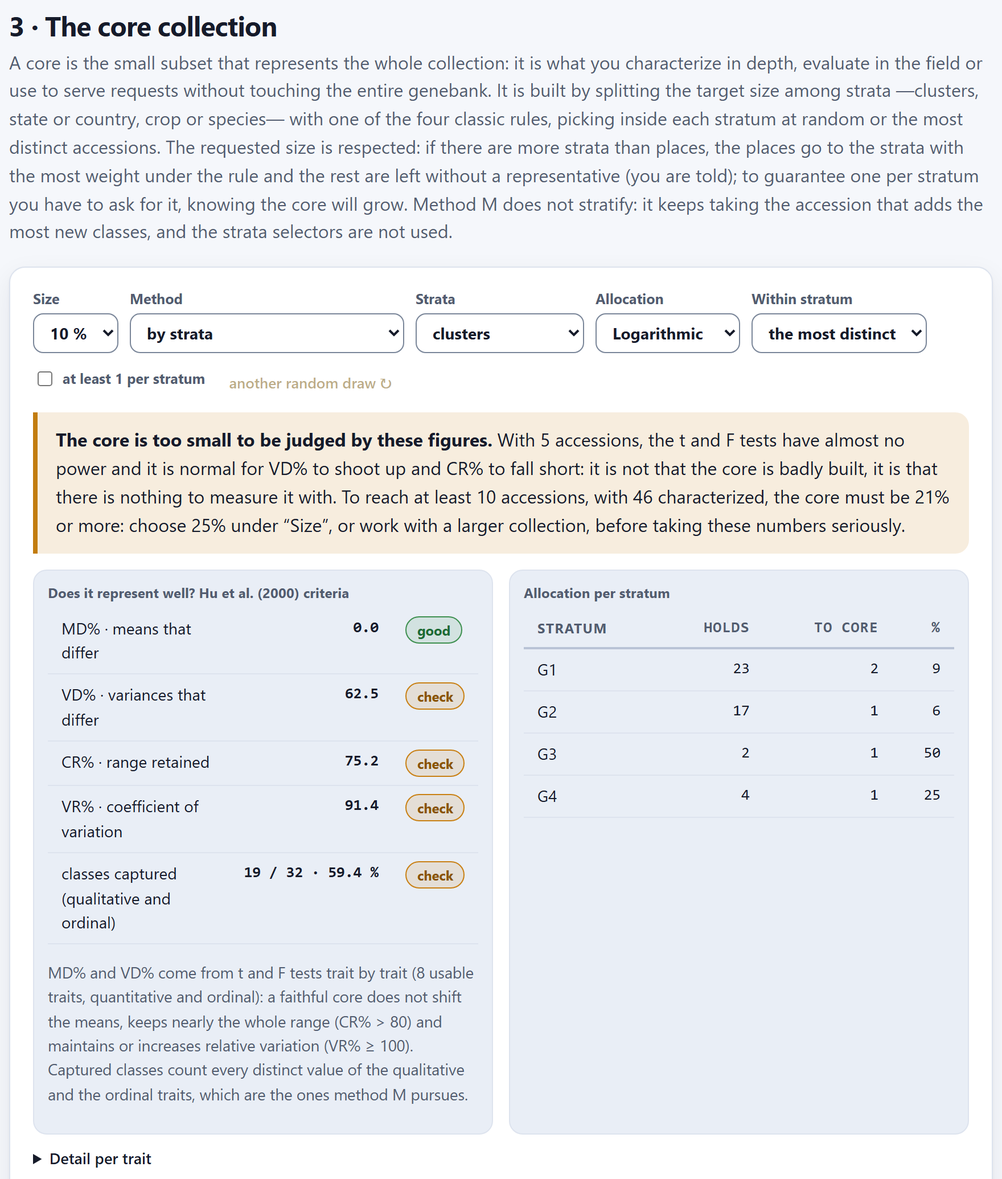
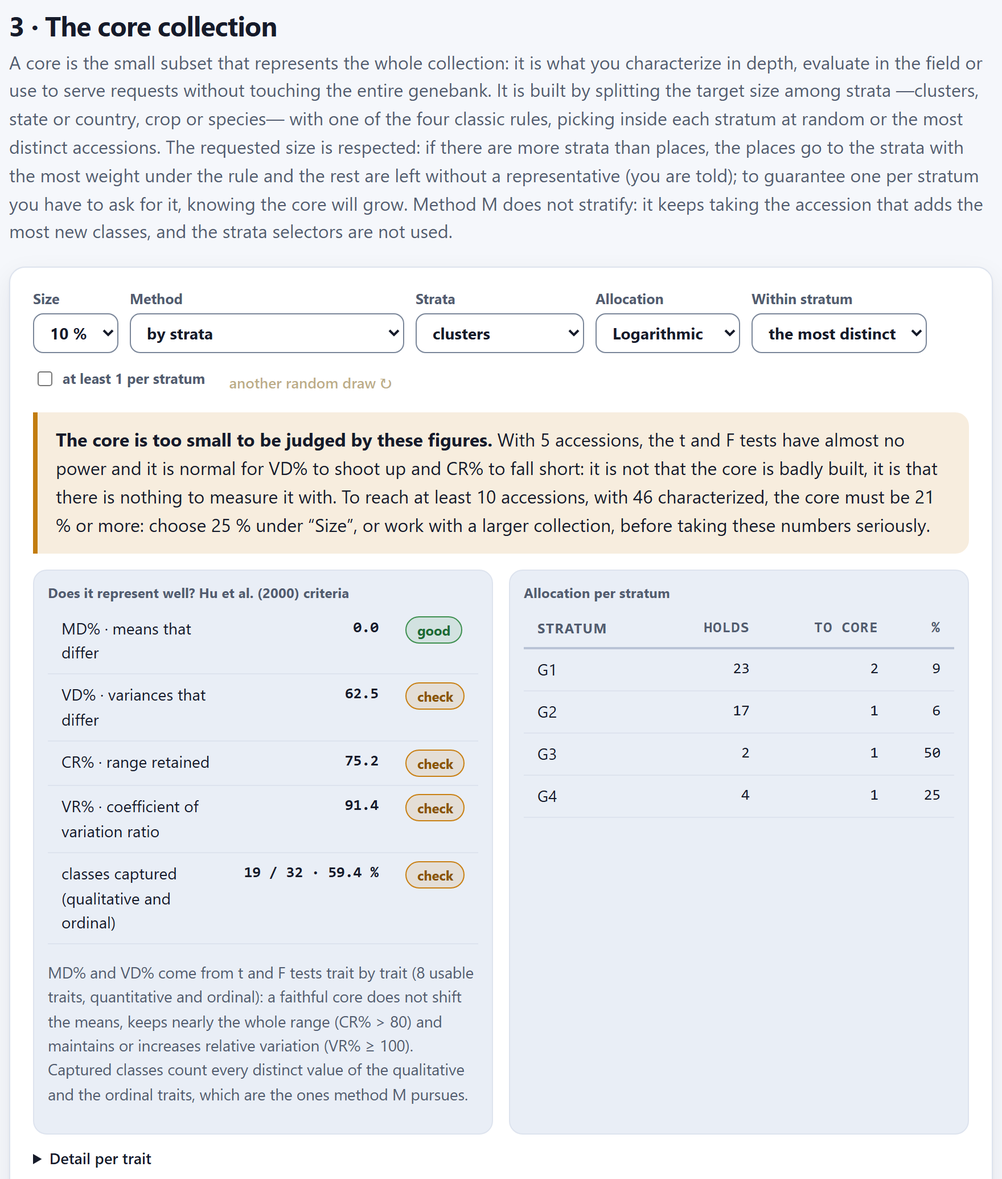
Manual: capítulos 7 y 8 en inglés al día con la interfaz revisada (Color by, porcentajes con espacio, archivos y columnas en inglés, VR% como razón de coeficientes de variación) y capturas rehechas; en español, VR% con su nuevo letrero y capturas b7-cargar, b7-nucleo, b7-nucleo30 y b7-detalle

Changed region(s): [[0.0625, 0.4329, 0.9062, 0.4638], [0.125, 0.6802, 0.1562, 0.7111]]

diff --git a/manual/en/07-bloque7.html b/manual/en/07-bloque7.html
@@ -49,7 +49,7 @@
   <h2 id="b7-1"><span class="num">7.1</span>Bringing in the characterization and joining it to the collection</h2>
   <p class="lead">Block 7 works with two tables: the passport from Block 2 (Chapter 2) and a characterization table with <b>one row per accession and one column per descriptor</b>. The two are joined through the accession number, <code>ACCENUMB</code>, which is the key of the whole app. If there is no passport, the block says <span class="ui">Load your accessions in Block 2 first.</span>; if there is a passport but no characterization, <span class="ui">No characterization data yet: load yours or open the example ones with the button above.</span></p>
   <figure class="mediana">
-    <div class="marco"><img src="../img/en/b7-cargar.png" alt="The header of Block 7: the title, the introductory paragraph, the buttons Load my characterization (CSV), Paste from a spreadsheet, Use the example characterization, Download the template and Remove the characterization, the note about the ACCENUMB column and six tiles: 46 characterized accessions of 46 in the collection with 12 traits, 4 groups with mean silhouette 0.14, a core of 5 accessions (10.9% of the characterized ones), MD% 0.0, CR% 75.2 and VR% 91.4"></div>
+    <div class="marco"><img src="../img/en/b7-cargar.png" alt="The header of Block 7: the title, the introductory paragraph, the buttons Load my characterization (CSV), Paste from a spreadsheet, Use the example characterization, Download the template and Remove the characterization, the note about the ACCENUMB column and six tiles: 46 characterized accessions of 46 in the collection with 12 traits, 4 groups with mean silhouette 0.14, a core of 5 accessions (10.9 % of the characterized ones), MD% 0.0, CR% 75.2 and VR% 91.4"></div>
     <figcaption><b>Figure 7.1.</b> The header of the block with the example collection, the example characterization and the default values. The color of the number in each tile is its traffic light: green if the figure is in the good range, ocher or red if it is worth checking.</figcaption>
   </figure>
   <table class="compacta">
@@ -59,7 +59,7 @@
       <tr><td><span class="ui">Load my characterization (CSV)</span></td><td>Reads a delimited <span class="ruta">.csv</span>, <span class="ruta">.tsv</span> or <span class="ruta">.txt</span> file and opens the confirmation card (Figure 7.2).</td></tr>
       <tr><td><span class="ui">Paste from a spreadsheet</span></td><td>Opens the same paste window as Block 2 (Section 2.3), titled <span class="ui">Paste your characterization</span>. Copy the block of cells with its header row and paste it; it also ends in the confirmation card.</td></tr>
       <tr><td><span class="ui">Use the example characterization</span></td><td>Generates the example characterization for the loaded accessions and computes the whole block at once, with the animated wait <i>Computing characterization and core</i>.</td></tr>
-      <tr><td><span class="ui">Download the template</span></td><td>Saves <span class="ruta">plantilla-caracterizacion.csv</span>: the <code>ACCENUMB</code> column already filled with all your accessions and six empty columns with the keys of the descriptor catalog: <code>DIAS_FLORACION</code>, <code>ALTURA_PLANTA</code>, <code>LARGO_FRUTO</code>, <code>COLOR_EXTERNO</code>, <code>FORMA_FRUTO</code> and <code>HABITO</code>. These are the same keys Block 2 recognizes as characterization on import (Section 2.5). Remove the ones you do not measure and add your own.</td></tr>
+      <tr><td><span class="ui">Download the template</span></td><td>Saves <span class="ruta">characterization-template.csv</span>: the <code>ACCENUMB</code> column already filled with all your accessions and six empty columns with the keys of the descriptor catalog: <code>DIAS_FLORACION</code>, <code>ALTURA_PLANTA</code>, <code>LARGO_FRUTO</code>, <code>COLOR_EXTERNO</code>, <code>FORMA_FRUTO</code> and <code>HABITO</code>. These are the same keys Block 2 recognizes as characterization on import (Section 2.5). Remove the ones you do not measure and add your own.</td></tr>
       <tr><td><span class="ui">Remove the characterization</span></td><td>Asks first and, if you confirm, deletes the saved characterization and leaves the block empty. The Block 2 accessions are not touched; if you loaded it from a file, just load it again.</td></tr>
     </tbody>
   </table>
@@ -114,7 +114,7 @@
       <tr><td><span class="ui">Core</span></td><td class="c">5</td><td>The accessions in the core and what percentage of the characterized ones they are (10.9%).</td></tr>
       <tr><td><span class="ui">MD%</span></td><td class="c">0.0</td><td>Means that differ between core and collection; good below 20 (Section 7.7).</td></tr>
       <tr><td><span class="ui">CR%</span></td><td class="c">75.2</td><td>Range retained; good above 80.</td></tr>
-      <tr><td><span class="ui">VR%</span></td><td class="c">91.4</td><td>Relative variation retained; good from 100, the same threshold in the label and in the traffic light.</td></tr>
+      <tr><td><span class="ui">VR%</span></td><td class="c">91.4</td><td>Coefficient of variation ratio: the relative variation retained; good from 100, the same threshold in the label and in the traffic light.</td></tr>
     </tbody>
   </table>
 
@@ -159,11 +159,11 @@
     <tbody>
       <tr><td><span class="ui">Tree</span></td><td><b><span class="ui">Ward.D2</span></b> or <span class="ui">UPGMA</span> (Section 7.5). Changes the tree, the groups and, if the core is stratified by groups, the core.</td></tr>
       <tr><td><span class="ui">Groups</span></td><td>From 2 to 8; by default, <b>4</b>. Where the tree is cut.</td></tr>
-      <tr><td><span class="ui">Colour by</span></td><td><b><span class="ui">group</span></b>, <span class="ui">crop</span>, <span class="ui">species</span> or <span class="ui">core</span>. Only changes the plot on the left; the tree is always by group. Each category gets a color and a shape (circle, square, triangle or diamond): eight colors times four shapes distinguish up to 32 categories; beyond that, the least frequent are pooled into <span class="ui">others</span>, with their number in parentheses in the legend.</td></tr>
+      <tr><td><span class="ui">Color by</span></td><td><b><span class="ui">group</span></b>, <span class="ui">crop</span>, <span class="ui">species</span> or <span class="ui">core</span>. Only changes the plot on the left; the tree is always by group. Each category gets a color and a shape (circle, square, triangle or diamond): eight colors times four shapes distinguish up to 32 categories; beyond that, the least frequent are pooled into <span class="ui">others</span>, with their number in parentheses in the legend.</td></tr>
     </tbody>
   </table>
   <figure>
-    <div class="marco"><img src="../img/en/b7-mapa.png" alt="The 2 · The map of resemblance section: the selectors Tree on Ward.D2, Groups on 4 and Colour by group, the note Axis 1 explains 17.9% and axis 2 13.2% of the variation; on the left the principal coordinates plot with tick marks on the axes, the points colored by group G1 to G4 and five large outlined points that are the core; on the right the Ward dendrogram with the 46 accessions, each name in the color of its group and a merge-height scale from 0 to 1; below, the buttons PCoA as SVG and Tree as SVG"></div>
+    <div class="marco"><img src="../img/en/b7-mapa.png" alt="The 2 · The map of resemblance section: the selectors Tree on Ward.D2, Groups on 4 and Color by group, the note Axis 1 explains 17.9 % and axis 2 13.2 % of the variation; on the left the principal coordinates plot with tick marks on the axes, the points colored by group G1 to G4 and five large outlined points that are the core; on the right the Ward dendrogram with the 46 accessions, each name in the color of its group and a merge-height scale from 0 to 1; below, the buttons PCoA as SVG and Tree as SVG"></div>
     <figcaption><b>Figure 7.4.</b> The map of resemblance with the default values. The tree shows all its leaves, each next to its name, with the merge-height scale at the bottom.</figcaption>
   </figure>
   <div class="caja teoria">
@@ -177,7 +177,7 @@
 
   <!-- 7.5 -->
   <h2 id="b7-5"><span class="num">7.5</span>Clustering and the silhouette</h2>
-  <p>The tree on the right clusters the accessions with the same Gower matrix. Each leaf is an accession, written in the color of its group and with its branch attached to its name; branches join toward the right, and the scale at the bottom gives the <span class="ui">merge height</span>: the further to the right two branches join, the more different they are. With Ward the height is in Ward.D2 units; with UPGMA, in Gower distance. The app cuts the tree into the chosen number of groups and calls the resulting groups G1, G2… Below the two plots, <span class="ui">PCoA as SVG</span> saves <span class="ruta">pcoa-gower.svg</span> and <span class="ui">Tree as SVG</span>, <span class="ruta">arbol-gower.svg</span>, both with the colors of the light theme.</p>
+  <p>The tree on the right clusters the accessions with the same Gower matrix. Each leaf is an accession, written in the color of its group and with its branch attached to its name; branches join toward the right, and the scale at the bottom gives the <span class="ui">merge height</span>: the further to the right two branches join, the more different they are. With Ward the height is in Ward.D2 units; with UPGMA, in Gower distance. The app cuts the tree into the chosen number of groups and calls the resulting groups G1, G2… Below the two plots, <span class="ui">PCoA as SVG</span> saves <span class="ruta">pcoa-gower.svg</span> and <span class="ui">Tree as SVG</span>, <span class="ruta">gower-tree.svg</span>, both with the colors of the light theme.</p>
   <div class="caja teoria">
     <div class="caja-t"><span class="ico">θ</span>Theory in brief · Ward.D2 and UPGMA</div>
     <p><b>UPGMA</b> joins at each step the two groups with the smallest mean distance between their members. <b>Ward.D2</b> (Murtagh and Legendre, 2014) joins the pair whose merger least increases the within-group sum of squares; it works with squared distances and updates with the Lance-Williams formula, the same criterion as R’s <code>hclust(…, method = "ward.D2")</code>. Ward tends to give groups of similar size; UPGMA respects the distances better, but leaves the rare accessions isolated and lumps the rest into one huge group. The cut into <i>k</i> groups splits, again and again, the highest remaining node.</p>
@@ -207,7 +207,7 @@
   <h2 id="b7-6"><span class="num">7.6</span>The core collection: strata, allocation and choice</h2>
   <p>A <b>core collection</b> (Frankel and Brown, 1984) is a small subset that keeps, with a minimum of repetition, most of the diversity of the whole collection. It serves to characterize in depth, to evaluate in the field or to serve requests without touching the whole genebank. The <span class="ui">3 · The core collection</span> section builds it in three decisions: how many accessions, among which strata they are allocated and which ones are chosen within each stratum.</p>
   <figure class="mediana">
-    <div class="marco"><img src="../img/en/b7-nucleo.png" alt="The 3 · The core collection section with the default values: the selectors Size on 10 %, Method by strata, Strata on clusters, Allocation on Logarithmic and Within stratum the most distinct, the checkbox at least 1 per stratum cleared and the button another random draw disabled; the warning The core is too small to be judged by these figures with 5 accessions, which says that with 46 characterized the core must be 21% or more and suggests choosing 25%; the Hu et al. criteria table with MD% 0.0 good, VD% 62.5 check, CR% 75.2 check, VR% 91.4 check and classes captured 19 / 32 · 59.4 % check; the allocation per stratum G1 23 to 2, G2 17 to 1, G3 2 to 1 and G4 4 to 1; and, below, the Detail per trait drop-down closed"></div>
+    <div class="marco"><img src="../img/en/b7-nucleo.png" alt="The 3 · The core collection section with the default values: the selectors Size on 10 %, Method by strata, Strata on clusters, Allocation on Logarithmic and Within stratum the most distinct, the checkbox at least 1 per stratum cleared and the button another random draw disabled; the warning The core is too small to be judged by these figures with 5 accessions, which says that with 46 characterized the core must be 21 % or more and suggests choosing 25 %; the Hu et al. criteria table with MD% 0.0 good, VD% 62.5 check, CR% 75.2 check, VR% 91.4 check and classes captured 19 / 32 · 59.4 % check; the allocation per stratum G1 23 to 2, G2 17 to 1, G3 2 to 1 and G4 4 to 1; and, below, the Detail per trait drop-down closed"></div>
     <figcaption><b>Figure 7.5.</b> The default core: 10%, stratified by the Ward groups, logarithmic allocation and the most distinct accessions within each stratum. With 5 accessions, the app warns that the core is too small to be judged.</figcaption>
   </figure>
   <p>The <span class="ui">Allocation per stratum</span> table says, for each stratum, how many accessions it <span class="ui">Holds</span>, how many go <span class="ui">To core</span> and what percentage that is; strata left without a representative appear in gray, with 0. With method M, a sentence takes its place saying how many accessions were chosen and how many classes were left out. Below, the list of the core (Figure 7.9) gives the number, name, species, group and stratum of each chosen accession.</p>
@@ -233,7 +233,7 @@
   </div>
   <div class="caja importante">
     <div class="caja-t"><span class="ico">!</span>More strata than places: either strata are missing or the core grows</div>
-    <p>With the example and the size at 20% (target: 9), stratifying by species leaves 24 strata for 9 places. The app respects the size and warns <span class="ui">15 of 24 strata are left without a representative.</span>: the places go to <i>Zea mays</i>, to two of the four beans, to two of the three squashes, to the chili, the amaranth, the husk tomato and the chayote, and the potato, the agave, the cacao and 12 other species do not enter. By state or country, 9 of 18 are left without a representative, and by crop, 14 of 23. If you tick <span class="ui">at least 1 per stratum</span>, the core by species rises to <b>24</b> accessions and the warning changes: <span class="ui">The core has 24 accessions, not the 9 requested (20%).</span>, 52.2% of the characterized ones. With fine strata you have to choose between a core of the requested size that leaves strata out and one that covers them all but is no longer small; use coarser strata (clusters or no strata) if neither suits you.</p>
+    <p>With the example and the size at 20% (target: 9), stratifying by species leaves 24 strata for 9 places. The app respects the size and warns <span class="ui">15 of 24 strata are left without a representative.</span>: the places go to <i>Zea mays</i>, to two of the four beans, to two of the three squashes, to the chili, the amaranth, the husk tomato and the chayote, and the potato, the agave, the cacao and 12 other species do not enter. By state or country, 9 of 18 are left without a representative, and by crop, 14 of 23. If you tick <span class="ui">at least 1 per stratum</span>, the core by species rises to <b>24</b> accessions and the warning changes: <span class="ui">The core has 24 accessions, not the 9 requested (20 %).</span>, 52.2% of the characterized ones. With fine strata you have to choose between a core of the requested size that leaves strata out and one that covers them all but is no longer small; use coarser strata (clusters or no strata) if neither suits you.</p>
   </div>
   <div class="caja ejemplo">
     <div class="caja-t"><span class="ico">▸</span>Worked example · the logarithmic allocation of the default core</div>
@@ -269,7 +269,7 @@
     <div class="formula">classes captured = 100 · Σ classes in the core / Σ classes in the collection<br>(qualitative and ordinal: each distinct value is a class)</div>
     <p>Hu <i>et al.</i> (2000) only set two thresholds: a good core has MD% &lt; 20 and CR% &gt; 80. Of VR% they say the larger, the better; the app asks for VR% ≥ 100, that the core does not lose relative variation compared with the collection, and uses that same threshold in the tile, in the traffic light and in the note about VD%. It also shows in green VD% &lt; 20 and classes captured above 80%.</p>
   </div>
-  <p>The yellow warning in Figure 7.5, <span class="ui">The core is too small to be judged by these figures.</span>, appears whenever the core has fewer than 10 accessions, because with so few the <i>t</i> and <i>F</i> tests have almost no power. The warning computes how much to raise it: with 46 characterized, <span class="ui">the core must be 21% or more: choose 25% under “Size”</span>. With 25% (12 accessions) the warning disappears, CR% rises to 99.2 and VR% to 99.3, still a hair short of the 100 threshold; with 30% (14 accessions) the core passes all three criteria (Figure 7.6).</p>
+  <p>The yellow warning in Figure 7.5, <span class="ui">The core is too small to be judged by these figures.</span>, appears whenever the core has fewer than 10 accessions, because with so few the <i>t</i> and <i>F</i> tests have almost no power. The warning computes how much to raise it: with 46 characterized, <span class="ui">the core must be 21 % or more: choose 25 % under “Size”</span>. With 25% (12 accessions) the warning disappears, CR% rises to 99.2 and VR% to 99.3, still a hair short of the 100 threshold; with 30% (14 accessions) the core passes all three criteria (Figure 7.6).</p>
   <p>With 14 accessions, the core keeps 99.3% of the range, 100.7% of the relative variation and 31 of the 32 classes (only the color “pinto” is missing), without changing any mean. VD% stays at 50: four of eight traits have a variance different from the collection’s. As the note under the criteria table explains, that is not a flaw: by picking the accessions most distinct from each other, the core ends up more variable than the collection and the <i>F</i> test detects it. A high VD% is only worrying when it comes with a low VR%. The note appears when VD% is above 20 with VR% ≥ 100 and CR% &gt; 80.</p>
   <figure class="chica">
     <div class="marco"><img src="../img/en/b7-nucleo30.png" alt="The validation with the size at 30 %: MD% 0.0 good, VD% 50.0 check, CR% 99.3 good, VR% 100.7 good and classes captured 31 / 32 · 96.9 % good; the note About this core’s high VD%; and the allocation G1 23 to 5, G2 17 to 5, G3 2 to 2 and G4 4 to 2; below, the Detail per trait drop-down closed"></div>
@@ -295,7 +295,7 @@
   <div class="lado">
   <figure>
     <div class="marco"><img src="../img/en/b7-pcoa-nucleo.png" alt="The principal coordinates plot colored by core with the size at 30 %: fourteen large outlined purple points spread over the whole plane and at its edges, and the rest of the accessions in ocher, with tick marks on both axes"></div>
-    <figcaption><b>Figure 7.8.</b> The principal coordinates with <span class="ui">Colour by</span> on <span class="ui">core</span> and the 30% core: the fourteen chosen accessions cover the edges of the plane.</figcaption>
+    <figcaption><b>Figure 7.8.</b> The principal coordinates with <span class="ui">Color by</span> on <span class="ui">core</span> and the 30% core: the fourteen chosen accessions cover the edges of the plane.</figcaption>
   </figure>
   <div><p>Figure 7.8 is the best visual test: a well-built core covers the whole plane and its edges, without crowding in the center. If the large points concentrate in one area, the core is missing part of the diversity even if the figures come out well.</p>
 <p>In the example, the two isolated points on the left —the oak and the agave— are in the core, as are the furthest ones at the top, bottom and right.</p></div>
@@ -310,11 +310,11 @@
   <p>Look at the list carefully: the 30% core includes <i>Chayote verde liso</i> twice, MEX-SE-0029 and MEX-SE-0046. They are one of the pairs of duplicates seeded in the example collection (Sections 3.5 to 3.7): the app does not tell them apart because the characterization treats them as distinct accessions. Merge duplicates in Block 3 before building the core, or you will spend a place on repeating an accession.</p>
   <p>At the end of the section there are three buttons (the two SVG plots are saved from section 2, Section 7.5):</p>
   <ul>
-    <li><span class="ui">Export the core as CSV</span> saves <span class="ruta">coleccion-nucleo.csv</span>, one row per accession in the core with the columns <code>ACCENUMB</code>, <code>ACCENAME</code>, <code>TAXON</code>, <code>CROPNAME</code>, <code>grupo</code>, <code>estrato</code> (with its readable name, as in the table; empty with method M), <code>nucleo</code> and its two principal coordinates, <code>pcoa1</code> and <code>pcoa2</code>, with four decimals.</li>
-    <li><span class="ui">Characterization + group + core</span> saves <span class="ruta">caracterizacion-completa.csv</span>: the same columns for <b>all</b> the characterized accessions plus the values of the traits that enter the analysis.</li>
-    <li><span class="ui">Distance matrix</span> saves <span class="ruta">distancias-gower.csv</span>, the square Gower matrix with four decimals and the accession number in the first column and in the header.</li>
+    <li><span class="ui">Export the core as CSV</span> saves <span class="ruta">core-collection.csv</span>, one row per accession in the core with the columns <code>ACCENUMB</code>, <code>ACCENAME</code>, <code>TAXON</code>, <code>CROPNAME</code>, <code>group</code>, <code>stratum</code> (with its readable name, as in the table; empty with method M), <code>core</code> and its two principal coordinates, <code>pcoa1</code> and <code>pcoa2</code>, with four decimals.</li>
+    <li><span class="ui">Characterization + group + core</span> saves <span class="ruta">characterization-full.csv</span>: the same columns for <b>all</b> the characterized accessions plus the values of the traits that enter the analysis.</li>
+    <li><span class="ui">Distance matrix</span> saves <span class="ruta">gower-distances.csv</span>, the square Gower matrix with four decimals: the accession numbers go in the first column, headed <code>accession</code>, and in the header row.</li>
   </ul>
-  <p>The <code>nucleo</code> column says <i>yes</i>/<i>no</i> in English and <i>sí</i>/<i>no</i> in Spanish. The CSV files are in UTF-8 with a byte order mark, so that Excel respects accented characters. None of them stores the settings: write down the options you used.</p>
+  <p>The <code>core</code> column says <i>yes</i> or <i>no</i>. The CSV files are in UTF-8 with a byte order mark, so that Excel respects accented characters. None of them stores the settings: write down the options you used.</p>
 
   <h3>The same example, other options</h3>
   <p>The core does not always improve with size, and no allocation rule always wins. With the example characterization, stratified by the Ward groups and with the most distinct accessions:</p>

diff --git a/manual/en/08-bloque8.html b/manual/en/08-bloque8.html
@@ -156,8 +156,8 @@
     <caption><b>Table 8.4.</b> The Block 8 alerts and how many accessions of the example collection have them.</caption>
     <thead><tr><th style="width:1.05in">Route</th><th>When it appears and what it says</th><th class="c" style="width:0.55in">Level</th><th class="c" style="width:0.45in">Ex.</th></tr></thead>
     <tbody>
-      <tr><td rowspan="8">Seed bank (or no declared route)</td><td>The last test already gave less than the threshold: <span class="ui">The last test gave N%, below the 85% threshold. Regenerating with 100 plants means sowing about S seeds.</span></td><td class="c">critical</td><td class="c">4</td></tr>
-      <tr><td>The test is above the threshold, but today’s projection is not: <span class="ui">The projection puts it at N% germination…</span>, with the same sentence about the seeds.</td><td class="c">critical</td><td class="c">0</td></tr>
+      <tr><td rowspan="8">Seed bank (or no declared route)</td><td>The last test already gave less than the threshold: <span class="ui">The last test gave N %, below the 85 % threshold. Regenerating with 100 plants means sowing about S seeds.</span></td><td class="c">critical</td><td class="c">4</td></tr>
+      <tr><td>The test is above the threshold, but today’s projection is not: <span class="ui">The projection puts it at N % germination…</span>, with the same sentence about the seeds.</td><td class="c">critical</td><td class="c">0</td></tr>
       <tr><td>It has fewer than 3 years left before crossing the threshold: <span class="ui">About N years left…</span></td><td class="c">warning</td><td class="c">0</td></tr>
       <tr><td>It has a germination value, but there are no constants for its species: <span class="ui">No viability constants for…</span></td><td class="c">datum</td><td class="c">14</td></tr>
       <tr><td>It has no test date: <span class="ui">It has never had a germination test.</span></td><td class="c">critical</td><td class="c">0</td></tr>
@@ -176,7 +176,7 @@
       <tr><td>Every ex situ route</td><td>No site in <code>DUPLSITE</code> is an institution other than <code>INSTCODE</code>: <span class="ui">No safety duplicate in another institution.</span></td><td class="c">warning</td><td class="c">21</td></tr>
     </tbody>
   </table>
-  <p>Below the threshold there is a single alert, the most serious one: if the measured test is already below, the app states it and mentions the projection only when it shows after rounding (<i>…below the 85% threshold; the projection puts it at N% today</i>). The teosinte gets no such mention, because 80.83% is also 81%. The closing sentence gives the seeds to sow to regenerate with the plants in the assumptions and today’s germination (the projected one, if there is one): S = ⌈ plants / (g · 0.9) ⌉, as in the calculator (Section 8.7). If the stock is not enough, it adds: <i>…and only N are left</i>.</p>
+  <p>Below the threshold there is a single alert, the most serious one: if the measured test is already below, the app states it and mentions the projection only when it shows after rounding (<i>…below the 85 % threshold; the projection puts it at N % today</i>). The teosinte gets no such mention, because 80.83% is also 81%. The closing sentence gives the seeds to sow to regenerate with the plants in the assumptions and today’s germination (the projected one, if there is one): S = ⌈ plants / (g · 0.9) ⌉, as in the calculator (Section 8.7). If the stock is not enough, it adds: <i>…and only N are left</i>.</p>
   <p>The safety duplicate follows the same rule as the Block 2 validation (Section 2.6): <code>DUPLSITE</code> may hold several codes separated by semicolons, and it is enough for one to differ from the code of the institution that holds the accession. In situ routes do not require it; all the others do, including cryopreservation and the DNA bank. The only cryopreserved accession in the example, the bitter potato (PER-ST-0022), has no check recorded and entered the genebank in 2018; its alert says <i>8.2 years since it entered the genebank, with no check recorded (the plan is every 5).</i></p>
 
   <!-- 8.5 -->
@@ -207,7 +207,7 @@
     </tbody>
   </table>
   <figure class="angosta">
-    <div class="marco"><img src="../img/en/b8-tareas.png" alt="Section 2: the paragraph The list goes by urgency, lots in trouble first, then those needing attention, those missing a datum and, last, those up to date, within each group those adding up the most alerts first and, on equal score, by accession number; the selectors Show on everything and Route on all, the button Work plan as CSV and the first three rows of the table: MEX-PH-0041, Frijol tepari, Seed bank, 430 seeds, 79 % 3.8 y ago, the alert The last test gave 79%, below the 85% threshold. Regenerating with 100 plants means sowing about 141 seeds, and three more, with the buttons Record test and Regeneration; MEX-TC-0027, Cacao criollo de Ocosing, Field genebank or living collection, 20 plants, germination —, three alerts and the button Replanting; MEX-SE-0046, Chayote verde liso, 15 plants, three alerts and the button Replanting"></div>
+    <div class="marco"><img src="../img/en/b8-tareas.png" alt="Section 2: the paragraph The list goes by urgency, lots in trouble first, then those needing attention, those missing a datum and, last, those up to date, within each group those adding up the most alerts first and, on equal score, by accession number; the selectors Show on everything and Route on all, the button Work plan as CSV and the first three rows of the table: MEX-PH-0041, Frijol tepari, Seed bank, 430 seeds, 79 % 3.8 y ago, the alert The last test gave 79 %, below the 85 % threshold. Regenerating with 100 plants means sowing about 141 seeds, and three more, with the buttons Record test and Regeneration; MEX-TC-0027, Cacao criollo de Ocosing, Field genebank or living collection, 20 plants, germination —, three alerts and the button Replanting; MEX-SE-0046, Chayote verde liso, 15 plants, three alerts and the button Replanting"></div>
     <figcaption><b>Figure 8.4.</b> The paragraph that explains the order and the first three rows of the work list, in trouble with 8, 8 and 7 points.</figcaption>
   </figure>
   <p>Two selectors filter the list. <span class="ui">Show</span> leaves <span class="ui">everything</span>, only the accessions <span class="ui">in trouble</span> (10), those that <span class="ui">need attention</span> (21), those with a missing datum, <span class="ui">missing data</span> (6), or those <span class="ui">up to date</span> (9). <span class="ui">Route</span> leaves a single route; each option says how many accessions it holds, for example <span class="ui">Seed bank (28)</span> or <span class="ui">Not declared (1)</span>, which leaves only the costeño chili (MEX-CH-0042).</p>
@@ -227,26 +227,26 @@
   </table>
   <div class="caja ejemplo">
     <div class="caja-t"><span class="ico">▸</span>Example · a test that goes badly and the regeneration that fixes it</div>
-    <p>On the Maíz azul de Apoala (MEX-ZM-0001), <span class="ui">Record test</span> with 80% and 200 seeds leaves <code>GP_GERMPCT</code> = 80, <code>GP_GERMDATE</code> = 20261031 and <code>GP_STOCK</code> = 1,600 (1,800 − 200). The lot goes from needing attention to being in trouble, with 5 points and the alert <i>The last test gave 80%, below the 85% threshold. Regenerating with 100 plants means sowing about 139 seeds.</i> (100 / (0.80 × 0.9) = 138.9). Then, <span class="ui">Regeneration</span> with 3,000 seeds and 97% leaves <code>GP_STOCK</code> = 3,000, <code>GP_GERMPCT</code> = 97 and both dates at 20261031; the lot is left with only the alert that it has no safety duplicate. In the same way, <span class="ui">Check</span> on the cryopreserved potato with 170 cryovials removes its overdue-check alert.</p>
+    <p>On the Maíz azul de Apoala (MEX-ZM-0001), <span class="ui">Record test</span> with 80% and 200 seeds leaves <code>GP_GERMPCT</code> = 80, <code>GP_GERMDATE</code> = 20261031 and <code>GP_STOCK</code> = 1,600 (1,800 − 200). The lot goes from needing attention to being in trouble, with 5 points and the alert <i>The last test gave 80 %, below the 85 % threshold. Regenerating with 100 plants means sowing about 139 seeds.</i> (100 / (0.80 × 0.9) = 138.9). Then, <span class="ui">Regeneration</span> with 3,000 seeds and 97% leaves <code>GP_STOCK</code> = 3,000, <code>GP_GERMPCT</code> = 97 and both dates at 20261031; the lot is left with only the alert that it has no safety duplicate. In the same way, <span class="ui">Check</span> on the cryopreserved potato with 170 cryovials removes its overdue-check alert.</p>
   </div>
   <p>The changes enter the passport like any other edit: they show in the Block 2 record and travel in its exports. There is no history of tests; each record replaces the previous one. If you need to keep the series, export the passport before each season.</p>
   <h3>The work plan as CSV</h3>
-  <p>The <span class="ui">Work plan as CSV</span> button saves <span class="ruta">plan-de-trabajo.csv</span>, in UTF-8, with one row per accession with any alert —37 with the example collection— in passport order and without applying the filters. If none has alerts, the app says <span class="ui">Nothing pending: the whole collection is up to date.</span></p>
+  <p>The <span class="ui">Work plan as CSV</span> button saves <span class="ruta">work-plan.csv</span>, in UTF-8, with one row per accession with any alert —37 with the example collection— in passport order and without applying the filters. If none has alerts, the app says <span class="ui">Nothing pending: the whole collection is up to date.</span></p>
   <table class="compacta csv">
     <caption><b>Table 8.7.</b> Seven of the twelve columns of the work plan, with two rows of the example collection.</caption>
-    <thead><tr><th>ACCENUMB</th><th>ruta</th><th>urgencia</th><th>existencias</th><th>unidad</th><th>germinacion_ultima</th><th>germinacion_proyectada</th></tr></thead>
+    <thead><tr><th>ACCENUMB</th><th>route</th><th>urgency</th><th>stock</th><th>unit</th><th>last_germination</th><th>projected_germination</th></tr></thead>
     <tbody>
       <tr><td>MEX-ZM-0001</td><td>Seed bank</td><td>needs attention</td><td>1800</td><td>seeds</td><td>88</td><td>87.9</td></tr>
       <tr><td>MEX-ZP-0011</td><td>Seed bank</td><td>in trouble</td><td>900</td><td>seeds</td><td>81</td><td>80.8</td></tr>
     </tbody>
   </table>
-  <p>The other five columns are <code>ACCENAME</code>, <code>TAXON</code> (genus and species), <code>anios_desde_prueba</code> (years since the test), <code>anios_al_umbral</code> (years to threshold; 67.3 and −83.1 in these two rows) and <code>acciones</code>, the accession’s alerts separated by a vertical bar. The column names are the same in both languages; the route, the urgency, the unit and the actions come out in the language of the interface; the years, with one decimal. Cells with no data are left empty: in the routes that are not seed, the five germination and year cells. Sort it by <code>urgencia</code> in your spreadsheet and share it out among those who do each task.</p>
+  <p>The other five columns are <code>ACCENAME</code>, <code>TAXON</code> (genus and species), <code>years_since_test</code>, <code>years_to_threshold</code> (67.3 and −83.1 in these two rows) and <code>actions</code>, the accession’s alerts separated by a vertical bar. The route, the urgency, the unit and the actions come out in the language of the interface; the years, with one decimal. Cells with no data are left empty: in the routes that are not seed, the five germination and year cells. Sort it by <code>urgency</code> in your spreadsheet and share it out among those who do each task.</p>
 
   <!-- 8.7 -->
   <h2 id="b8-7"><span class="num">8.7</span>How many plants and how many seeds</h2>
   <p>The <span class="ui">3 · How many plants and how many seeds</span> section has two panels. The one on the left, <span class="ui">Plants needed</span>, answers the question of every regeneration: with how many plants rare alleles are not lost. It has three sliders: <span class="ui">Frequency of the allele to keep</span> (1 to 20%, default 5%), <span class="ui">Desired certainty</span> (80 to 99%, default 95%) and <span class="ui">Lot germination (%)</span> (20 to 100% in steps of 5, default 85%). The result changes as you drag.</p>
   <figure style="width:66%;margin-left:auto;margin-right:auto">
-    <div class="marco"><img src="../img/en/b8-calculo.png" alt="Section 3: on the left, the Plants needed panel with Frequency of the allele to keep 5 %, Desired certainty 95 % and Lot germination 85 %; outcrossing species 30 plants and 40 seeds to sow; self-pollinating species 59 plants and 78 seeds; Genebank regeneration (assumptions) 100 plants and 131 seeds; and the note that with the 100 plants the probability is > 99.99% in an outcrosser and 99.41% in a selfer; on the right, the bar chart Workload for the next 25 years with scale 0, 13 and 25, peaks of 25 tasks in years 7 and 17, subcultures in blue every year, regenerations and replantings in year 0, and the legend of four series"></div>
+    <div class="marco"><img src="../img/en/b8-calculo.png" alt="Section 3: on the left, the Plants needed panel with Frequency of the allele to keep 5 %, Desired certainty 95 % and Lot germination 85 %; outcrossing species 30 plants and 40 seeds to sow; self-pollinating species 59 plants and 78 seeds; Genebank regeneration (assumptions) 100 plants and 131 seeds; and the note that with the 100 plants the probability is > 99.99 % in an outcrosser and 99.41 % in a selfer; on the right, the bar chart Workload for the next 25 years with scale 0, 13 and 25, peaks of 25 tasks in years 7 and 17, subcultures in blue every year, regenerations and replantings in year 0, and the legend of four series"></div>
     <figcaption><b>Figure 8.5.</b> The sample-size calculator with its default values and the workload of the example collection.</figcaption>
   </figure>
   <div class="caja teoria">
@@ -255,7 +255,7 @@
     <div class="formula">P(keep) = 1 − (1 − p)<sup>k·n</sup>   ·   n = ⌈ ln(1 − P) / (k · ln(1 − p)) ⌉   ·   k = 2 in outcrossers, 1 in selfers</div>
     <p>The seeds to sow come from dividing the plants by the germination <i>g</i> and a fixed field establishment of 90%: seeds = ⌈ n / (g · 0.9) ⌉.</p>
   </div>
-  <p>The first two lines say how many plants are needed in an outcrossing and in a self-pollinating species, and how many seeds to sow to obtain them. The third, <span class="ui">Genebank regeneration (assumptions)</span>, takes the plants per regeneration from section 1 and gives their seeds; the note below gives, with them, the probability of keeping the allele in the two kinds of species and, if they are not enough, how many would be needed. Probabilities within a hundredth of 100% are written <span class="ui">&gt; 99.99%</span>.</p>
+  <p>The first two lines say how many plants are needed in an outcrossing and in a self-pollinating species, and how many seeds to sow to obtain them. The third, <span class="ui">Genebank regeneration (assumptions)</span>, takes the plants per regeneration from section 1 and gives their seeds; the note below gives, with them, the probability of keeping the allele in the two kinds of species and, if they are not enough, how many would be needed. Probabilities within a hundredth of 100% are written <span class="ui">&gt; 99.99 %</span>.</p>
   <div class="caja ejemplo">
     <div class="caja-t"><span class="ico">▸</span>Worked example · the default values and a 1% allele</div>
     <table class="compacta cuenta"><tbody>

diff --git a/manual/es/07-bloque7.html b/manual/es/07-bloque7.html
@@ -114,7 +114,7 @@
       <tr><td><span class="ui">Núcleo</span></td><td class="c">5</td><td>Las accesiones del núcleo y qué porcentaje son de las caracterizadas (10.9&nbsp;%).</td></tr>
       <tr><td><span class="ui">MD%</span></td><td class="c">0.0</td><td>Medias que difieren entre núcleo y colección; bueno por debajo de 20 (apartado 7.7).</td></tr>
       <tr><td><span class="ui">CR%</span></td><td class="c">75.2</td><td>Rango conservado; bueno por encima de 80.</td></tr>
-      <tr><td><span class="ui">VR%</span></td><td class="c">91.4</td><td>Variación relativa conservada; bueno desde 100, el mismo umbral en el letrero y en el semáforo.</td></tr>
+      <tr><td><span class="ui">VR%</span></td><td class="c">91.4</td><td>Razón de coeficientes de variación: la variación relativa conservada; bueno desde 100, el mismo umbral en el letrero y en el semáforo.</td></tr>
     </tbody>
   </table>
 
@@ -206,7 +206,7 @@
   <!-- 7.6 -->
   <h2 id="b7-6"><span class="num">7.6</span>La colección núcleo: estratos, reparto y elección</h2>
   <p>Una <b>colección núcleo</b> (Frankel y Brown, 1984) es un subconjunto pequeño que guarda, con el mínimo de repeticiones, la mayor parte de la diversidad de la colección entera. Sirve para caracterizar a fondo, para evaluar en campo o para atender pedidos sin tocar todo el banco. La sección <span class="ui">3 · La colección núcleo</span> la arma en tres decisiones: cuántas accesiones, en qué estratos se reparten y cuáles se eligen dentro de cada estrato.</p>
-  <figure class="mediana">
+  <figure class="mediana" style="width:82%">
     <div class="marco"><img src="../img/b7-nucleo.png" alt="La sección 3 · La colección núcleo con los valores de fábrica: los selectores Tamaño en 10 %, Método por estratos, Estratos en grupos del agrupamiento, Reparto en Logarítmica y Dentro del estrato las más distintas, la casilla al menos 1 por estrato sin marcar y el botón otra selección al azar desactivado; el aviso El núcleo es demasiado pequeño para juzgarlo con estas cifras con 5 accesiones, que dice que con 46 caracterizadas hace falta un núcleo de 21 % o más y propone elegir 25 %; la tabla de criterios de Hu et al. con MD% 0.0 bien, VD% 62.5 revisar, CR% 75.2 revisar, VR% 91.4 revisar y clases capturadas 19 / 32 · 59.4 % revisar; el reparto por estrato G1 23 a 2, G2 17 a 1, G3 2 a 1 y G4 4 a 1; y, debajo, el desplegable Detalle por carácter cerrado"></div>
     <figcaption><b>Figura 7.5.</b> El núcleo de fábrica: 10&nbsp;%, estratificado por los grupos de Ward, reparto logarítmico y las accesiones más distintas dentro de cada estrato. Con 5 accesiones, la app avisa que el núcleo es demasiado pequeño para juzgarlo.</figcaption>
   </figure>
